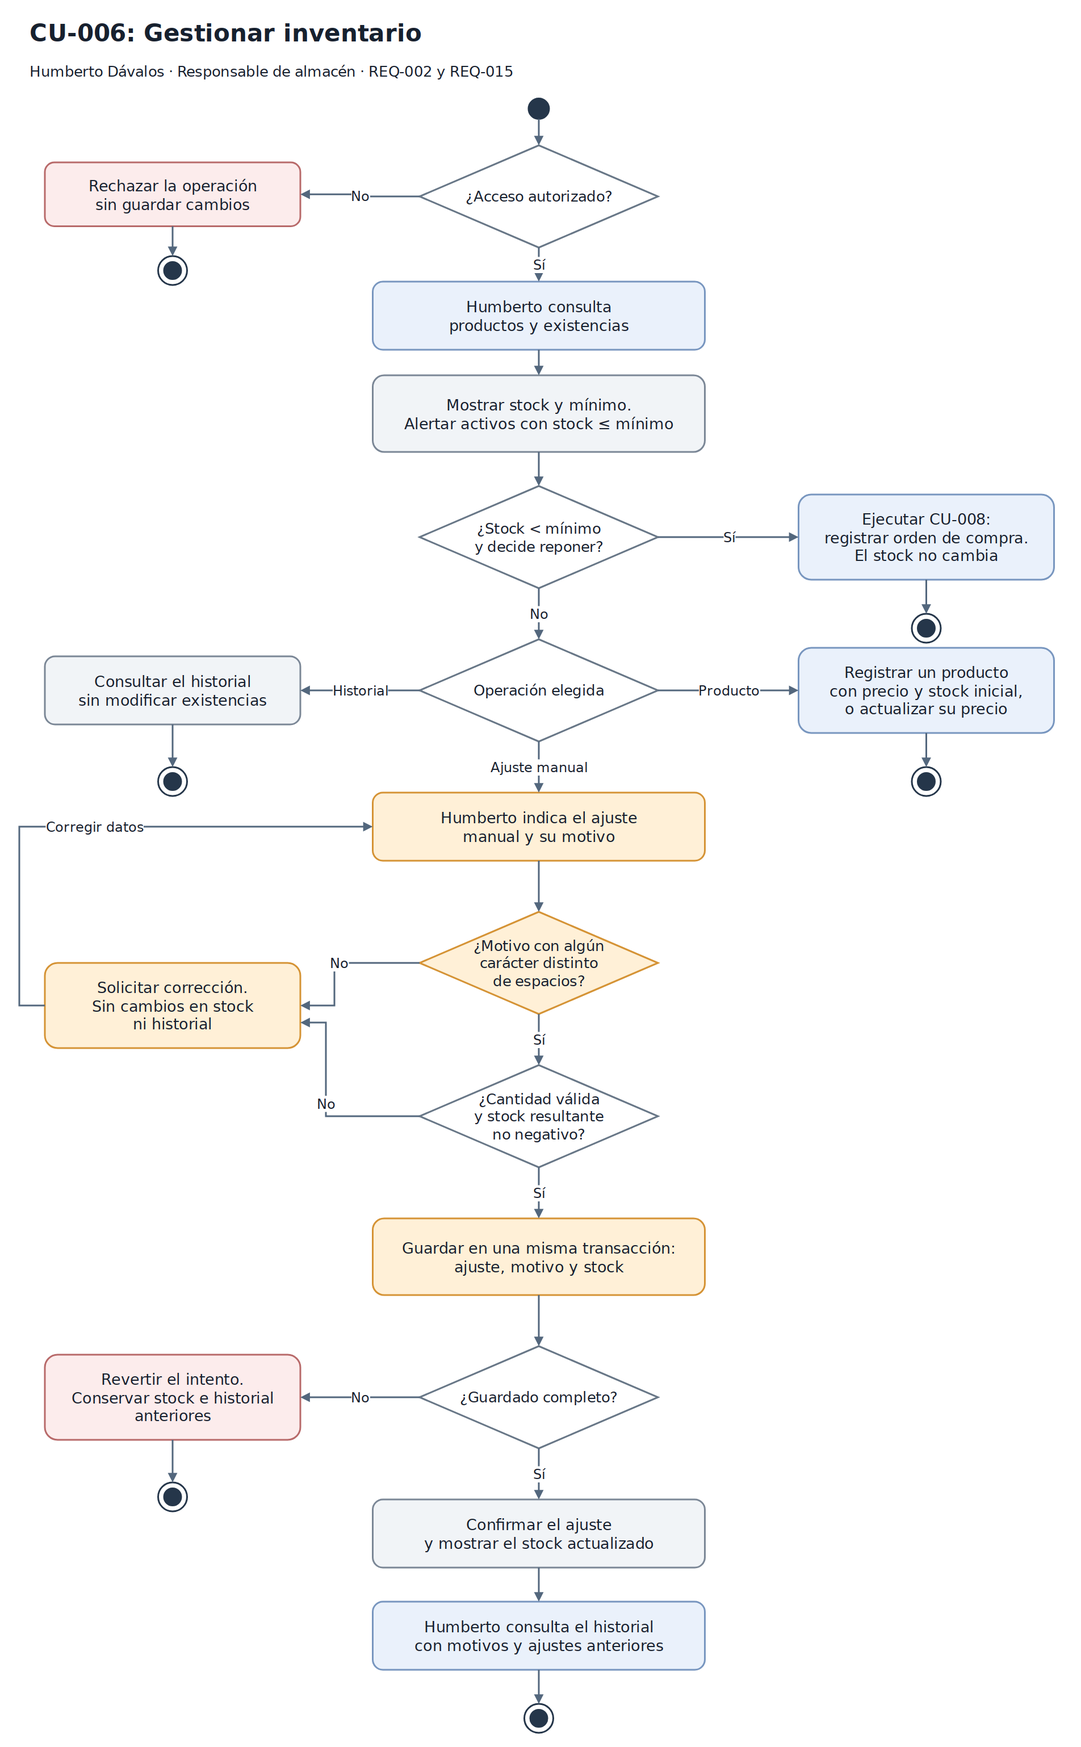
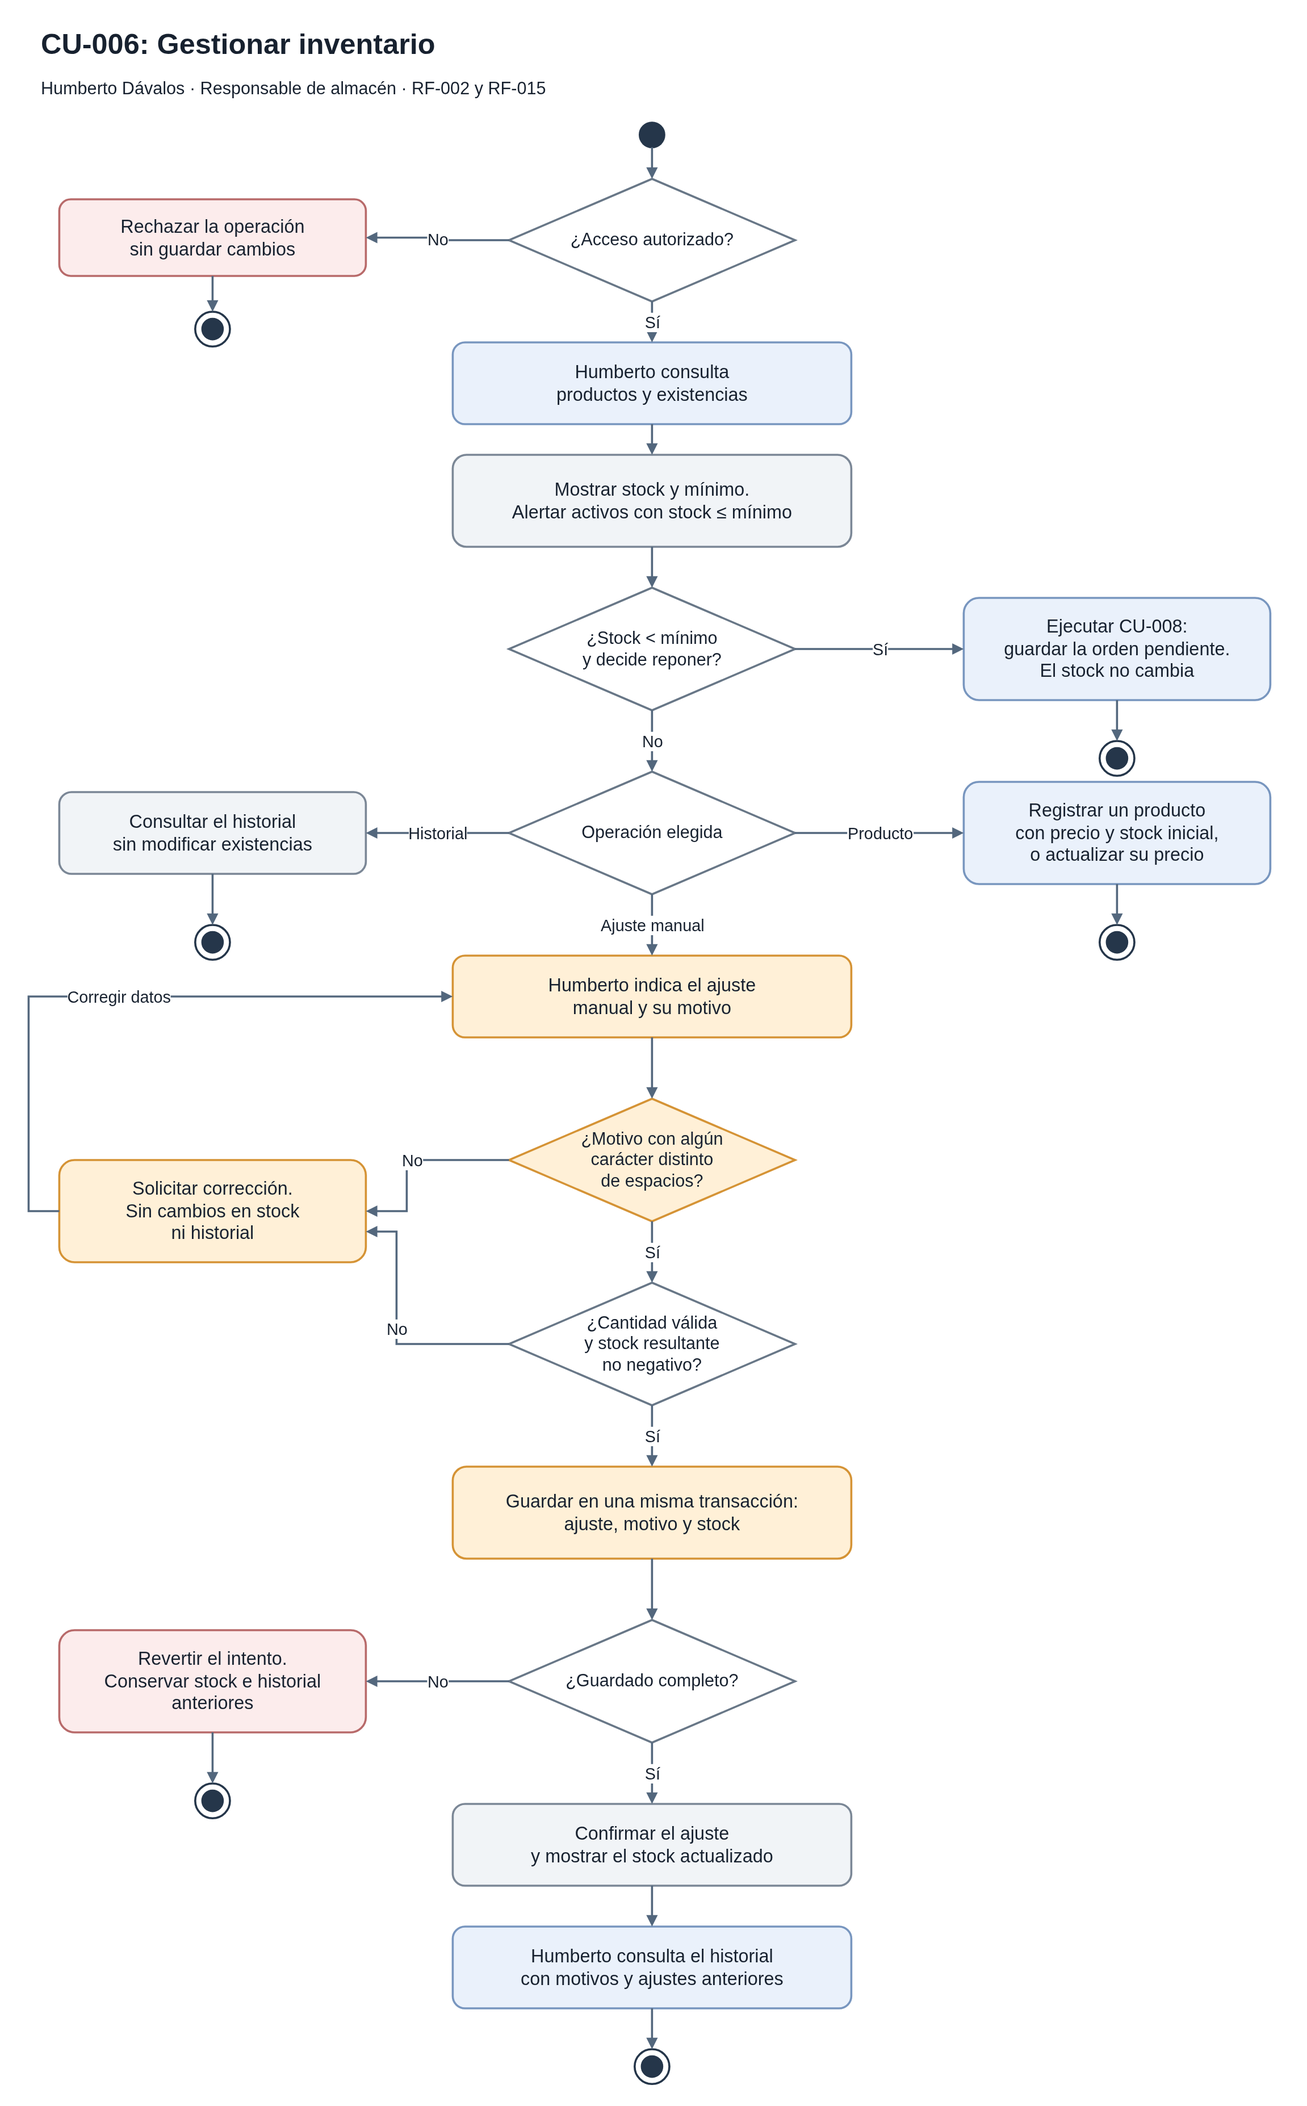
Revisar los diagramas y la trazabilidad de v2.0
Rediseña el modelo de seis clases y sincroniza la exportación de CU-006.
Completa los escenarios de venta, separación y recepción. Comprueba los pares de requisitos y pruebas en ambos sentidos en el Excel.

diff --git a/pruebas/pruebas.md b/pruebas/pruebas.md
@@ -2,17 +2,17 @@
 
 | ID | Requisitos | Qué se prueba | Resultado esperado |
 |---|---|---|---|
-| PRU-001 | RF-001, RNF-004 | Con una sesión administrativa activa, usar un producto activo con stock 10 y precio del servicio de S/ 6,70. Registrar una venta de 3 unidades con pago en efectivo de S/ 50,00 y consultar los registros guardados. Como escenario separado, restablecer el estado inicial y repetir la operación provocando un fallo durante el guardado. | En el escenario de éxito se guardan la cabecera, el detalle, el método de pago en efectivo y el movimiento de salida de 3 unidades; el total es S/ 20,10 y el stock queda en 7. En el escenario de fallo, la venta no se confirma, no quedan cabecera, detalle ni movimiento correspondientes al intento y el stock permanece en 10. |
+| PRU-001 | RF-001, RNF-004 | Con una sesión administrativa activa, usar un producto activo con stock 10 y precio del servicio de S/ 6,70. Registrar una venta de 3 unidades con pago en efectivo de S/ 50,00 y consultar los registros guardados. Restablecer el estado inicial y, en un escenario separado, intentar vender 11 unidades del mismo producto. Por último, restablecer el estado inicial e intentar de nuevo la venta de 3 unidades provocando un fallo durante el guardado. | En el escenario de éxito se guardan la cabecera, el detalle, el método de pago en efectivo y el movimiento de salida de 3 unidades; el total es S/ 20,10 y el stock queda en 7. Con stock insuficiente, se identifica el producto y se rechaza la venta. Ante el fallo de guardado, la venta tampoco se confirma. En ambos casos el stock queda en 10 y el intento no deja cabecera, detalle ni movimiento. |
 | PRU-002 | RF-002 | Con una sesión administrativa activa de Humberto en su rol de Responsable de almacén, preparar tres productos activos con stock 4, 5 y 6, respectivamente, y un producto inactivo con stock 4. Configurar un mínimo de 5 para los cuatro. Consultar las existencias y comprobar qué productos aparecen en las alertas. | La consulta muestra las existencias correspondientes. La alerta incluye los productos activos con stock 4 y 5; excluye el activo con stock 6 y el producto inactivo con stock 4. |
 | PRU-003 | RF-001, RNF-005 | Con una sesión administrativa activa, usar un producto activo con stock suficiente y precio del servicio de S/ 6,70. Registrar una venta de 3 unidades con pago en efectivo de S/ 50,00. Comparar el total mostrado con el total registrado y comprobar el vuelto calculado y mostrado. | El total mostrado y registrado es S/ 20,10. El vuelto calculado y mostrado es S/ 29,90. Los importes se expresan con dos decimales. |
 | PRU-004 | RF-010 | Con una sesión administrativa activa, un cliente registrado y un producto activo con stock 10 y precio de S/ 6,70, registrar consecutivamente dos ventas de 3 unidades, con pago en efectivo de S/ 50,00 por venta. Vincular al cliente en la primera; iniciar la segunda sin asociar un cliente. Consultar ambas ventas guardadas. | Las dos ventas se confirman. La primera queda asociada al cliente elegido y la segunda queda sin cliente vinculado, sin conservar la asociación de la primera. |
 | PRU-005 | RF-003 | Registrar una orden con razón social, RUC y teléfono del proveedor; volver a consultar la orden. | La orden conserva los tres datos del proveedor dentro de su registro. |
-| PRU-006 | RF-004 | Con un producto por debajo del mínimo, registrar una orden con dos productos, cantidades y costos conocidos. Dejar la recepción para después y consultar el total, el estado y el stock. Repetir la consulta con stock igual al mínimo sin iniciar una orden. | La orden conserva proveedor y detalle, calcula el total estimado y queda pendiente sin aumentar el stock. La alerta por igualdad al mínimo no inicia por sí sola una orden. |
+| PRU-006 | RF-004 | Con un producto por debajo del mínimo, registrar una orden con dos productos, cantidades y costos conocidos. Dejar la recepción para después y consultar el total, el estado y el stock. Repetir la consulta con stock igual al mínimo sin iniciar una orden. Después, anular la orden pendiente que aún no tiene recepciones e intentar registrar una recepción contra esa orden. | La orden conserva proveedor y detalle, calcula el total estimado y queda pendiente sin aumentar el stock. La alerta por igualdad al mínimo no inicia por sí sola una orden. La orden anulada conserva el stock y cualquier intento de recepción sobre ella se rechaza. |
 | PRU-007 | RF-007 | Desde el portal de un cliente registrado, usar un producto existente cuyo nombre, categoría, precio y disponibilidad se hayan identificado previamente. Buscarlo por nombre y realizar una búsqueda por su categoría; comparar los datos mostrados con los valores de referencia. Buscar después un nombre que no corresponda a ningún producto. Guardar el producto existente en favoritos y en una lista del cliente; volver a consultar ambas selecciones. | Las búsquedas por nombre y categoría muestran las coincidencias correspondientes, con el precio y la disponibilidad esperados. La búsqueda sin coincidencias muestra un estado vacío. Al volver a consultar favoritos y la lista, el producto permanece en ambas selecciones del cliente. |
-| PRU-008 | RF-005 | Recibir parcialmente una orden pendiente y consultar cantidades recibidas, saldo, stock y movimientos. Repetir con una referencia duplicada y con una cantidad superior al saldo. En un escenario separado, registrar una compra con mercadería ya recibida, una referencia nueva y un producto dado de alta desde el formulario con stock inicial cero. | La recepción parcial aumenta el stock por lo recibido, registra el movimiento de entrada y deja pendiente el saldo. Los intentos con referencia repetida o exceso de unidades se rechazan sin cambios. En la recepción inmediata, la compra queda recibida y el stock del producto nuevo queda en la cantidad ingresada. La compra, la recepción y el movimiento se guardan en una transacción. |
+| PRU-008 | RF-005 | Recibir parcialmente una orden pendiente y consultar cantidades recibidas, saldo, stock y movimientos. Repetir con una referencia duplicada y con una cantidad superior al saldo. En escenarios separados, registrar una compra con mercadería ya recibida, una referencia nueva y un producto dado de alta con stock inicial cero, e intentar una recepción contra una orden pendiente provocando un fallo después de la primera escritura y antes de confirmar la transacción. | La recepción parcial aumenta el stock por lo recibido, registra el movimiento de entrada y deja pendiente el saldo. Los intentos con referencia repetida o exceso de unidades se rechazan sin cambios. En la recepción inmediata, la compra queda recibida y el stock del producto nuevo queda en la cantidad ingresada. La compra, la recepción y el movimiento se guardan en una transacción. Ante el fallo, la orden conserva su estado y saldo anteriores, el stock queda intacto y el intento no deja recepciones ni movimientos parciales. |
 | PRU-009 | RF-006, RNF-002 | Iniciar y cerrar sesión como administrador y cliente registrado; revisar la navegación de cada perfil e intentar una operación administrativa protegida con el cliente. | Cada perfil accede a sus funciones. El cliente no ve opciones administrativas y la operación protegida rechaza su rol. Tras cerrar sesión, ninguna de las dos cuentas conserva el acceso anterior. |
 | PRU-010 | RF-008 | Crear una campaña por producto con descuento y vigencia; editarla, pausarla, activarla y eliminarla. Comparar el descuento calculado en interfaz y servicio. | La campaña conserva los cambios y responde a cada cambio de estado. El importe descontado coincide en interfaz y servicio para el mismo producto y precio. |
-| PRU-011 | RF-009 | Crear una solicitud de separación de hasta tres productos desde el portal y consultar su código, importe estimado, estado y vencimiento. | La solicitud queda registrada con vencimiento de 24 horas. No confirma una venta ni descuenta existencias. |
+| PRU-011 | RF-009 | Seleccionar tres productos distintos desde el portal e intentar añadir un cuarto. Enviar la solicitud de los tres productos permitidos. Consultar su código, importe estimado, estado y vencimiento. Comparar las existencias y la disponibilidad antes y después del envío. | El cuarto producto se rechaza. La solicitud registra los tres productos permitidos, un código, el importe estimado, el estado pendiente de confirmación y un vencimiento de 24 horas. El envío no confirma una venta, no descuenta ni bloquea existencias. |
 | PRU-012 | RF-011 | Consultar un cliente identificado con compras conocidas y contrastar nombre, contacto, frecuencia e historial básico. | Los datos y el historial corresponden al cliente consultado. |
 | PRU-013 | RF-012 | Seleccionar un periodo con ventas y movimientos conocidos; consultar el resumen de ventas, métodos de pago y productos con movimiento. | Las cifras corresponden al periodo seleccionado y coinciden con los registros preparados. |
 | PRU-014 | RF-013 | Como administrador, crear, editar y desactivar una cuenta; intentar la misma operación con un rol no autorizado y verificar la protección de la cuenta administrativa. | Los cambios autorizados se conservan. El rol no autorizado es rechazado y la cuenta administrativa permanece protegida. |

diff --git a/matrices/impacto-cambios.md b/matrices/impacto-cambios.md
@@ -6,7 +6,7 @@ La versión indicada es la primera que incorporó cada cambio. El [registro de c
 |---|---|---|---|---|
 | [CR-001](../docs/cambios.md) · Motivo obligatorio en ajustes | v1.1 | RF-015, CU-006 y CLS-MovimientoInventario. El modelo incorpora `motivo` y `validarMotivo`, y `registrarAjuste` recibe el motivo. | La estimación original fue de 2 horas para actualizar la documentación y el modelo y revisar sus vínculos. | Guarda el ajuste, su motivo y el stock en una sola transacción. El alcance original pasó de 6 a 8 pruebas documentadas. PRU-016 a PRU-018 cubren la aceptación y el rechazo del motivo. |
 | [CR-002](../docs/cambios.md) · Límites de concurrencia en Kanban | v2.0 | Cambia las reglas del equipo para iniciar, revisar y devolver tarjetas. En curso y En revisión admiten dos tarjetas cada una. | Si la columna de destino está llena, la tarjeta espera en su columna actual. El equipo prioriza liberar espacio antes de iniciar más trabajo. | Cada tarjeta bloqueada cuenta para su límite y las tarjetas terminadas conservan su evidencia. Las [reglas de concurrencia](../docs/agilidad.md#reglas-de-concurrencia) y el tablero permiten comprobar el cambio. |
-| [CR-003](../docs/cambios.md) · Compra con recepción inmediata | v2.0 | RF-005, BR-004 y BR-008. CU-008 permite registrar la compra con la recepción y CU-009 cubre la entrada de existencias. | Cuando la mercadería ya llegó, la compra y la recepción se registran en el mismo formulario. Una orden pendiente se atiende al recibir la mercadería. | Compra, recepción y movimientos se guardan juntos. PRU-006 cubre la orden pendiente y PRU-008 la recepción inmediata, parcial y los rechazos por duplicación o exceso. |
+| [CR-003](../docs/cambios.md) · Compra con recepción inmediata | v2.0 | RF-005, BR-004 y BR-008. CU-008 permite registrar la compra con la recepción y CU-009 cubre la entrada de existencias. | Cuando la mercadería ya llegó, la compra y la recepción se registran en el mismo formulario. Una orden pendiente se atiende al recibir la mercadería. | Compra, recepción y movimientos se guardan juntos. PRU-006 cubre la orden pendiente y su anulación. PRU-008 contempla la recepción inmediata, parcial, los rechazos por duplicación o exceso y el fallo de guardado. |
 | [CR-004](../docs/cambios.md) · Comprobación de Yape y Plin | v2.0 | RF-001, BR-001 y CU-001. Exige el importe exacto y la confirmación manual del abono. | Humberto comprueba el abono antes de confirmar la venta. | PRU-020 documenta el rechazo de ventas con importe distinto o sin comprobación y el registro de la venta cuando se cumplen ambas condiciones. |
 
 [Ver los riesgos y las medidas de respuesta](riesgos-cambios.md).

diff --git a/reportes/trazabilidad-v2.0.md b/reportes/trazabilidad-v2.0.md
@@ -20,7 +20,7 @@ Las pruebas registran escenarios y resultados esperados. La cobertura de pruebas
 |---|---|---|---|
 | CR-001 · Motivo obligatorio en ajustes | v1.1 | REQ-015, identificado como RF-015 en v2.0, [CU-006](../docs/CU.md#cu-006-gestionar-inventario) y CLS-MovimientoInventario. La matriz de v2.0 también vincula RF-015 con CLS-Producto. | [PRU-016 a PRU-018](../pruebas/pruebas.md) documentan el motivo válido, vacío y formado solo por espacios. La v2.0 añade PRU-019, que cubre el fallo de guardado. |
 | CR-002 · Límites de concurrencia en Kanban | v2.0 | [Reglas de movimiento y capacidad](../docs/agilidad.md#reglas-de-concurrencia). En curso y En revisión admiten dos tarjetas cada una, incluidas las bloqueadas. | Las listas En curso y En revisión del [tablero Kanban](https://trello.com/b/pG8s0HQ8/comercial-nazareth) muestran el límite. La [tarjeta del CR-002](https://trello.com/c/M6iVRmxI) reúne los criterios de revisión. |
-| CR-003 · Compra con recepción inmediata | v2.0 | RF-005, BR-004 y BR-008, [CU-008](../docs/CU.md#cu-008-registrar-orden-de-compra) y [CU-009](../docs/CU.md#cu-009-gestionar-compras-recepción-de-mercadería). | [PRU-006 y PRU-008](../pruebas/pruebas.md) describen la orden pendiente, la recepción inmediata y parcial y el rechazo de referencias repetidas o cantidades mayores al saldo. |
+| CR-003 · Compra con recepción inmediata | v2.0 | RF-005, BR-004 y BR-008, [CU-008](../docs/CU.md#cu-008-registrar-orden-de-compra) y [CU-009](../docs/CU.md#cu-009-gestionar-compras-recepción-de-mercadería). | [PRU-006 y PRU-008](../pruebas/pruebas.md) describen la orden pendiente y su anulación, la recepción inmediata y parcial, el rechazo de referencias repetidas o cantidades mayores al saldo y la reversión ante un fallo de guardado. |
 | CR-004 · Comprobación de Yape y Plin | v2.0 | RF-001, BR-001 y [CU-001](../docs/CU.md#cu-001-registrar-venta). | [PRU-020](../pruebas/pruebas.md) documenta el importe exacto, la comprobación manual del abono y los rechazos correspondientes. |
 
 La columna «Último CR» de la [matriz de trazabilidad](../matrices/trazabilidad.md#requisitos-funcionales) relaciona RF-015, RF-005 y RF-001 con sus cambios. PRU-006 complementa al CR-003 con el escenario de orden pendiente, vinculado a RF-004. El CR-002 se sigue desde las tarjetas del tablero y las reglas de concurrencia.

diff --git a/docs/SRS.md b/docs/SRS.md
@@ -35,7 +35,7 @@ Los cuatro roles internos corresponden al perfil administrativo de Humberto. El 
 | RF-001 | Registrar venta | El sistema debe registrar los productos, cantidades y método de pago de la venta, calcular el total con los precios del servicio y redondear los importes a dos decimales. La venta, su detalle y la salida de stock deben confirmarse en una misma transacción; ante un error de guardado, deben revertirse sin cambios parciales. | CU-001 |
 | RF-002 | Consultar existencias y alertas | El sistema debe mostrar las existencias y señalar los productos activos cuyo stock sea menor o igual al mínimo configurado. | CU-006 |
 | RF-003 | Identificar proveedor de la orden | El sistema debe guardar razón social, RUC y teléfono del proveedor dentro de la orden, sin exigir un catálogo independiente. | CU-008 |
-| RF-004 | Registrar orden de compra | El sistema debe conservar proveedor, productos, cantidades, costos y estado pendiente, recibida o anulada; calcular el total estimado. | CU-008 |
+| RF-004 | Registrar orden de compra | El sistema debe conservar proveedor, productos, cantidades, costos y estado pendiente, recibida o anulada; calcular el total estimado. | CU-008 y CU-009 |
 | RF-005 | Registrar recepción | El sistema debe guardar las cantidades recibidas, aumentar el stock y crear los movimientos de entrada en una transacción. La recepción puede registrarse contra una orden pendiente o al guardar una compra con mercadería ya recibida. | CU-009 y CU-008 (recepción inmediata) |
 | RF-006 | Acceder según perfil | El sistema debe permitir inicio y cierre de sesión para el perfil administrativo y el cliente registrado. | Acceso transversal |
 | RF-007 | Consultar catálogo | El sistema debe permitir buscar productos por nombre y categoría, mostrar su precio y disponibilidad, y guardar favoritos y listas en el portal del cliente registrado. | CU-003 |

diff --git a/docs/cambios.md b/docs/cambios.md
@@ -7,7 +7,7 @@
 | CR-003 · Compra con recepción inmediata | v2.0 | [#10](https://github.com/seckfly/Grupo_4_ISW_Comercial_Nazareth_Definitivo/issues/10) | [#7](https://github.com/seckfly/Grupo_4_ISW_Comercial_Nazareth_Definitivo/pull/7) | [RF-005, BR-004 y BR-008](SRS.md), [CU-008 y CU-009](CU.md) y [PRU-006 y PRU-008](../pruebas/pruebas.md). |
 | CR-004 · Comprobación de Yape y Plin | v2.0 | [#11](https://github.com/seckfly/Grupo_4_ISW_Comercial_Nazareth_Definitivo/issues/11) | [#7](https://github.com/seckfly/Grupo_4_ISW_Comercial_Nazareth_Definitivo/pull/7) | [RF-001 y BR-001](SRS.md), [CU-001](CU.md) y [PRU-020](../pruebas/pruebas.md). |
 
-El PR #7 sincronizó la documentación de compras y pagos. Los escenarios de prueba detallan los resultados esperados de ambos cambios.
+El [PR #7](https://github.com/seckfly/Grupo_4_ISW_Comercial_Nazareth_Definitivo/pull/7) sincronizó la documentación de compras y pagos. El [PR #14](https://github.com/seckfly/Grupo_4_ISW_Comercial_Nazareth_Definitivo/pull/14) enlazó ambos cambios con el SRS, la matriz y las pruebas.
 
 ## Evaluación de los cambios
 

diff --git a/README.md b/README.md
@@ -6,13 +6,11 @@ Sistema de gestión comercial y portal de clientes de Comercial Nazareth. El rep
 
 ## Integrantes
 
-| Integrante | Código |
-|---|---|
-| Marco Antonio Martell Alvarez | N00471929 |
-| Alejandro Horna Quezada | N00475530 |
-| Isaí Samuel Bejarano Benites | N00490010 |
-| Cesar Jeremin Alonso Chuquimango Reyes | N00480808 |
-| Alonso Castillo Davalos | N00491764 |
+- Marco Antonio Martell Alvarez
+- Alejandro Horna Quezada
+- Isaí Samuel Bejarano Benites
+- Cesar Jeremin Alonso Chuquimango Reyes
+- Alonso Castillo Davalos
 
 ## Versiones
 
@@ -65,4 +63,3 @@ El [informe de trazabilidad](reportes/trazabilidad-v2.0.md#trazabilidad-de-los-c
 ## Kanban
 
 [Tablero de Comercial Nazareth](https://trello.com/b/pG8s0HQ8/comercial-nazareth). En curso y En revisión admiten un máximo de dos tarjetas cada una. Las reglas contemplan capacidad, bloqueos, correcciones y criterios de cierre.
-

diff --git a/matrices/trazabilidad.md b/matrices/trazabilidad.md
@@ -41,7 +41,7 @@ La matriz reúne los 15 requisitos funcionales, los seis no funcionales y las oc
 | BR-002 | Precio y redondeo; descuento concordante | PRU-003, PRU-010 |
 | BR-003 | Venta sin cliente asociado | PRU-004 |
 | BR-004 | El stock aumenta al confirmar la recepción | PRU-006, PRU-008 |
-| BR-005 | Separación sin venta ni descuento de stock | PRU-011 |
+| BR-005 | Separación sin venta ni bloqueo de existencias | PRU-011 |
 | BR-006 | Alerta por umbral y decisión de reponer | PRU-002, PRU-006 |
 | BR-007 | Proveedor guardado en la orden | PRU-005 |
 | BR-008 | Recepción parcial y rechazo de duplicados o exceso | PRU-008 |

diff --git a/docs/CU.md b/docs/CU.md
@@ -265,4 +265,3 @@ Precondiciones: sesión administrativa activa, mercadería verificada físicamen
 | Falla el guardado de la recepción | Revertir las cantidades y movimientos de la operación. |
 
 Postcondición de éxito: queda guardada una recepción sin duplicados y el stock aumenta por lo efectivamente recibido. La orden permanece pendiente si hay saldo o queda recibida cuando se completa. Una orden con entradas registradas no se anula; las devoluciones y la reversión de recepciones quedan fuera de este alcance.
-
